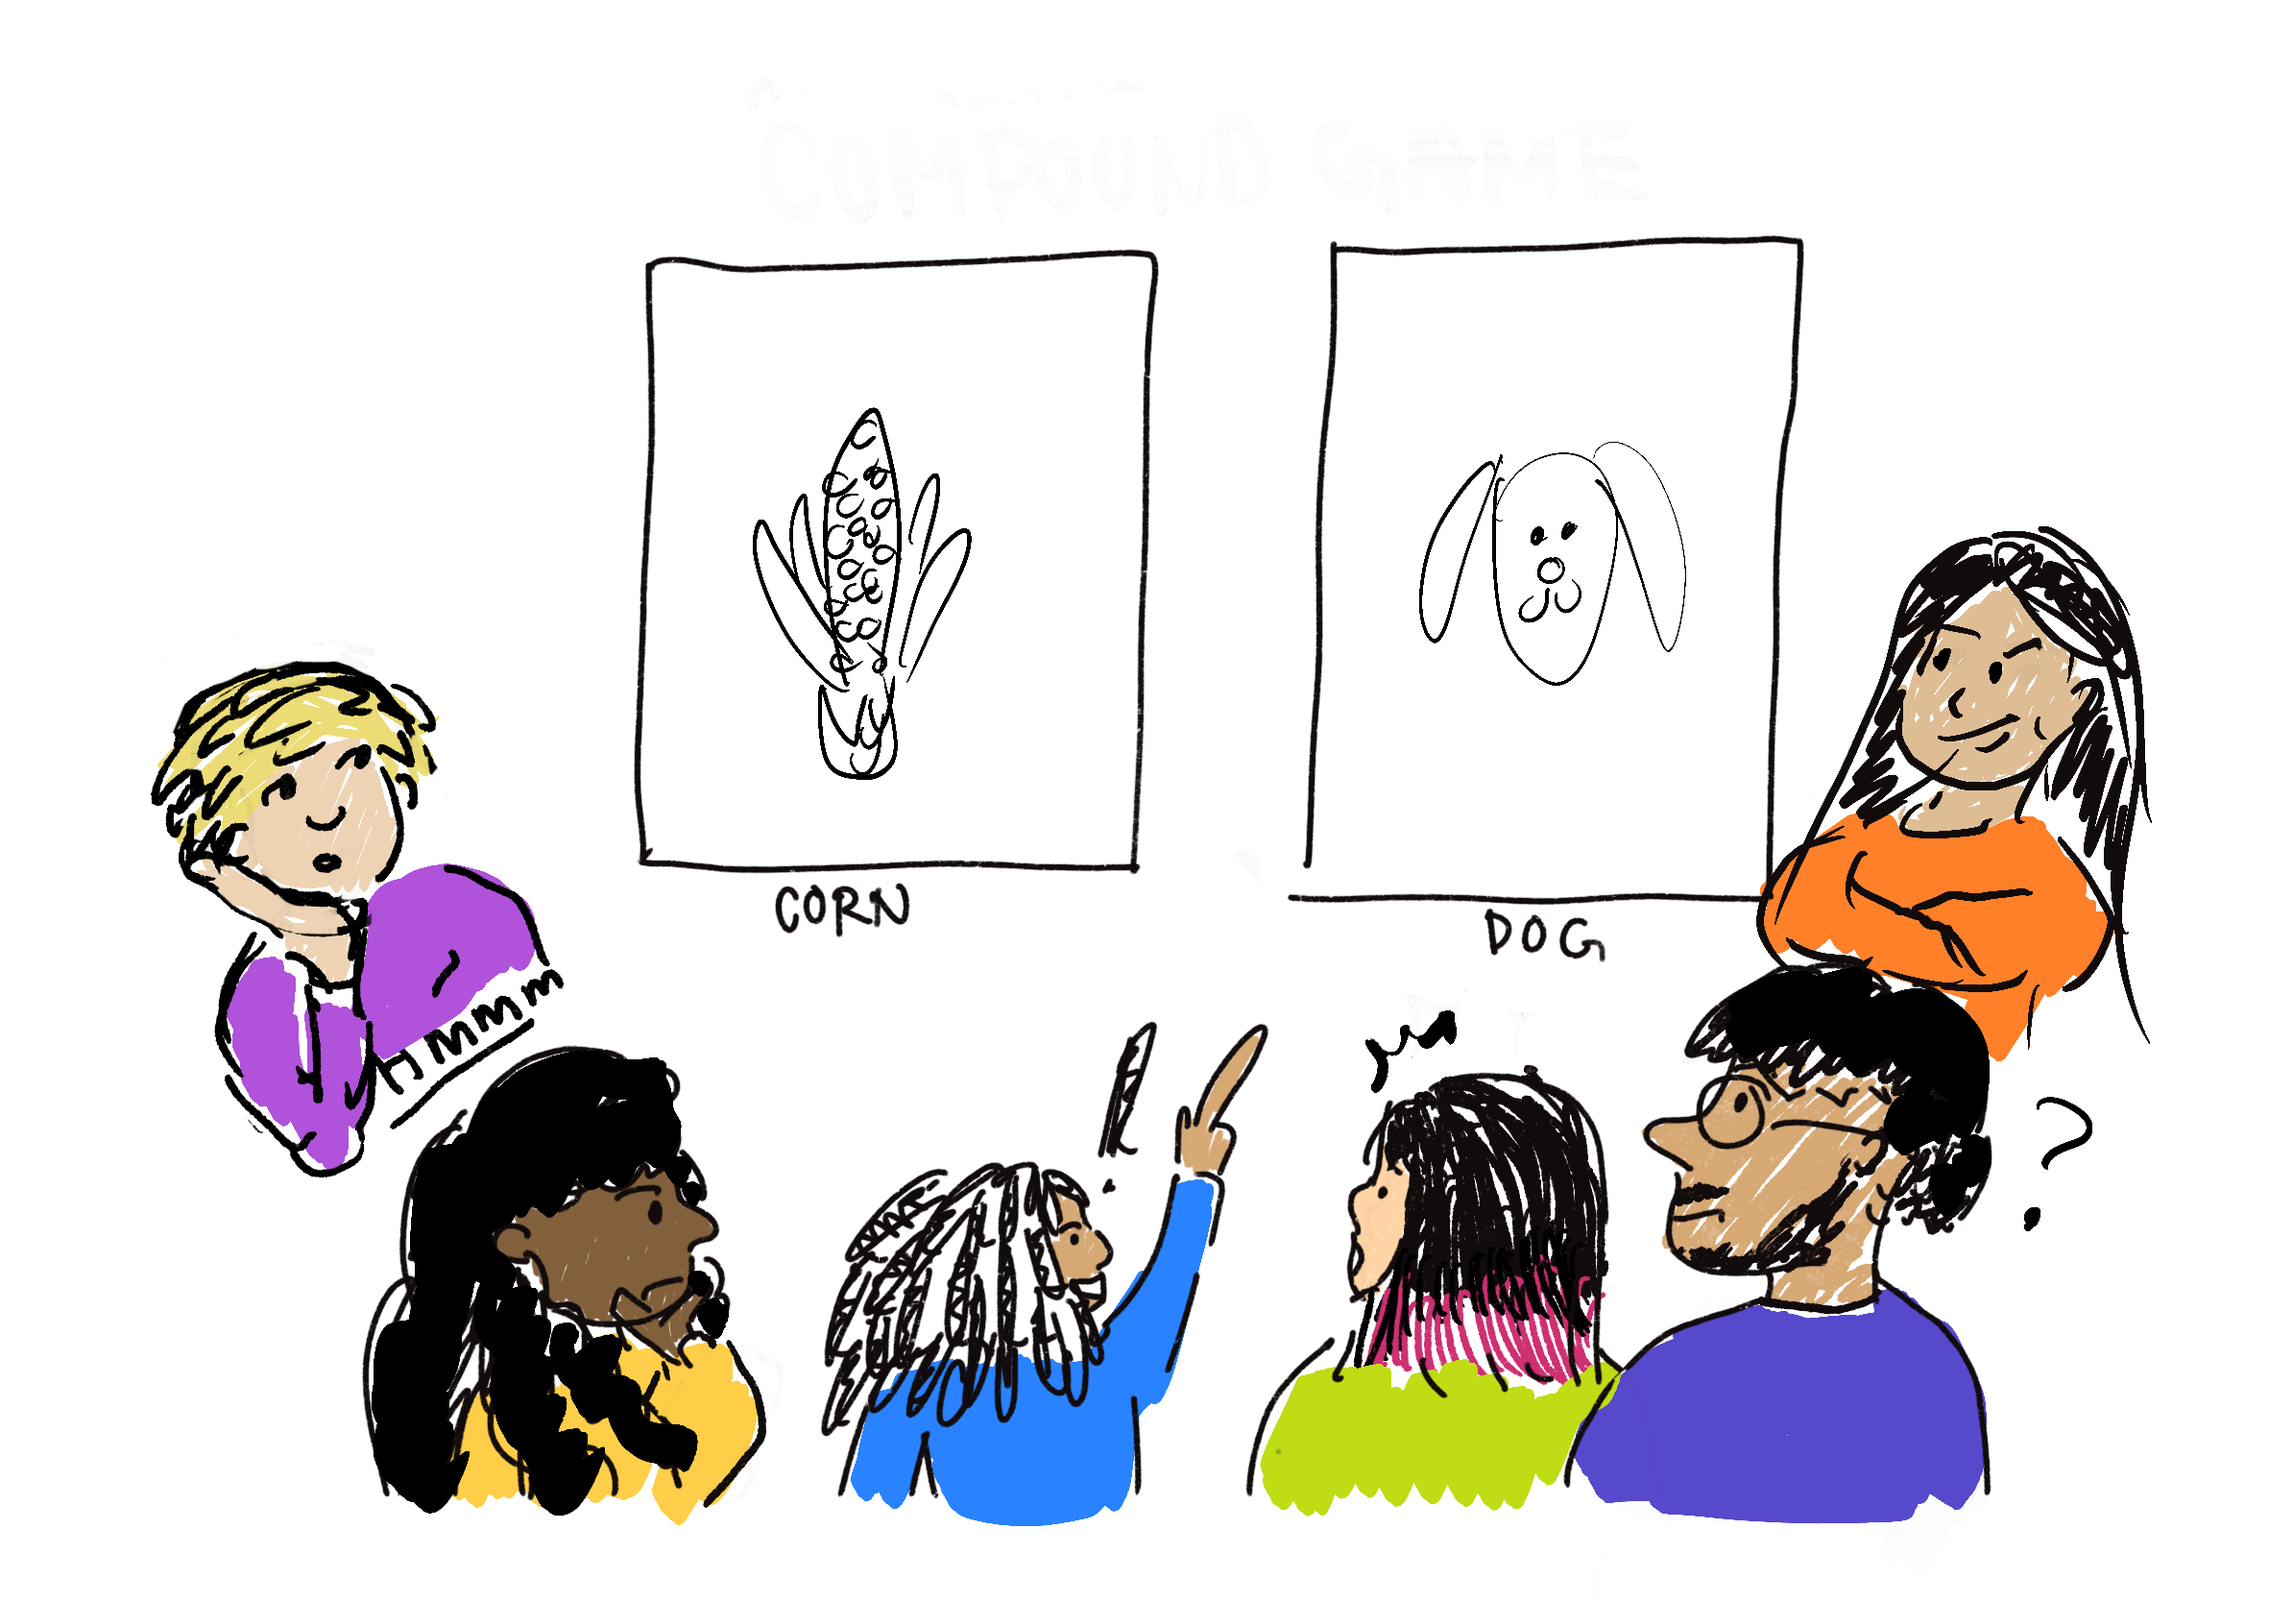
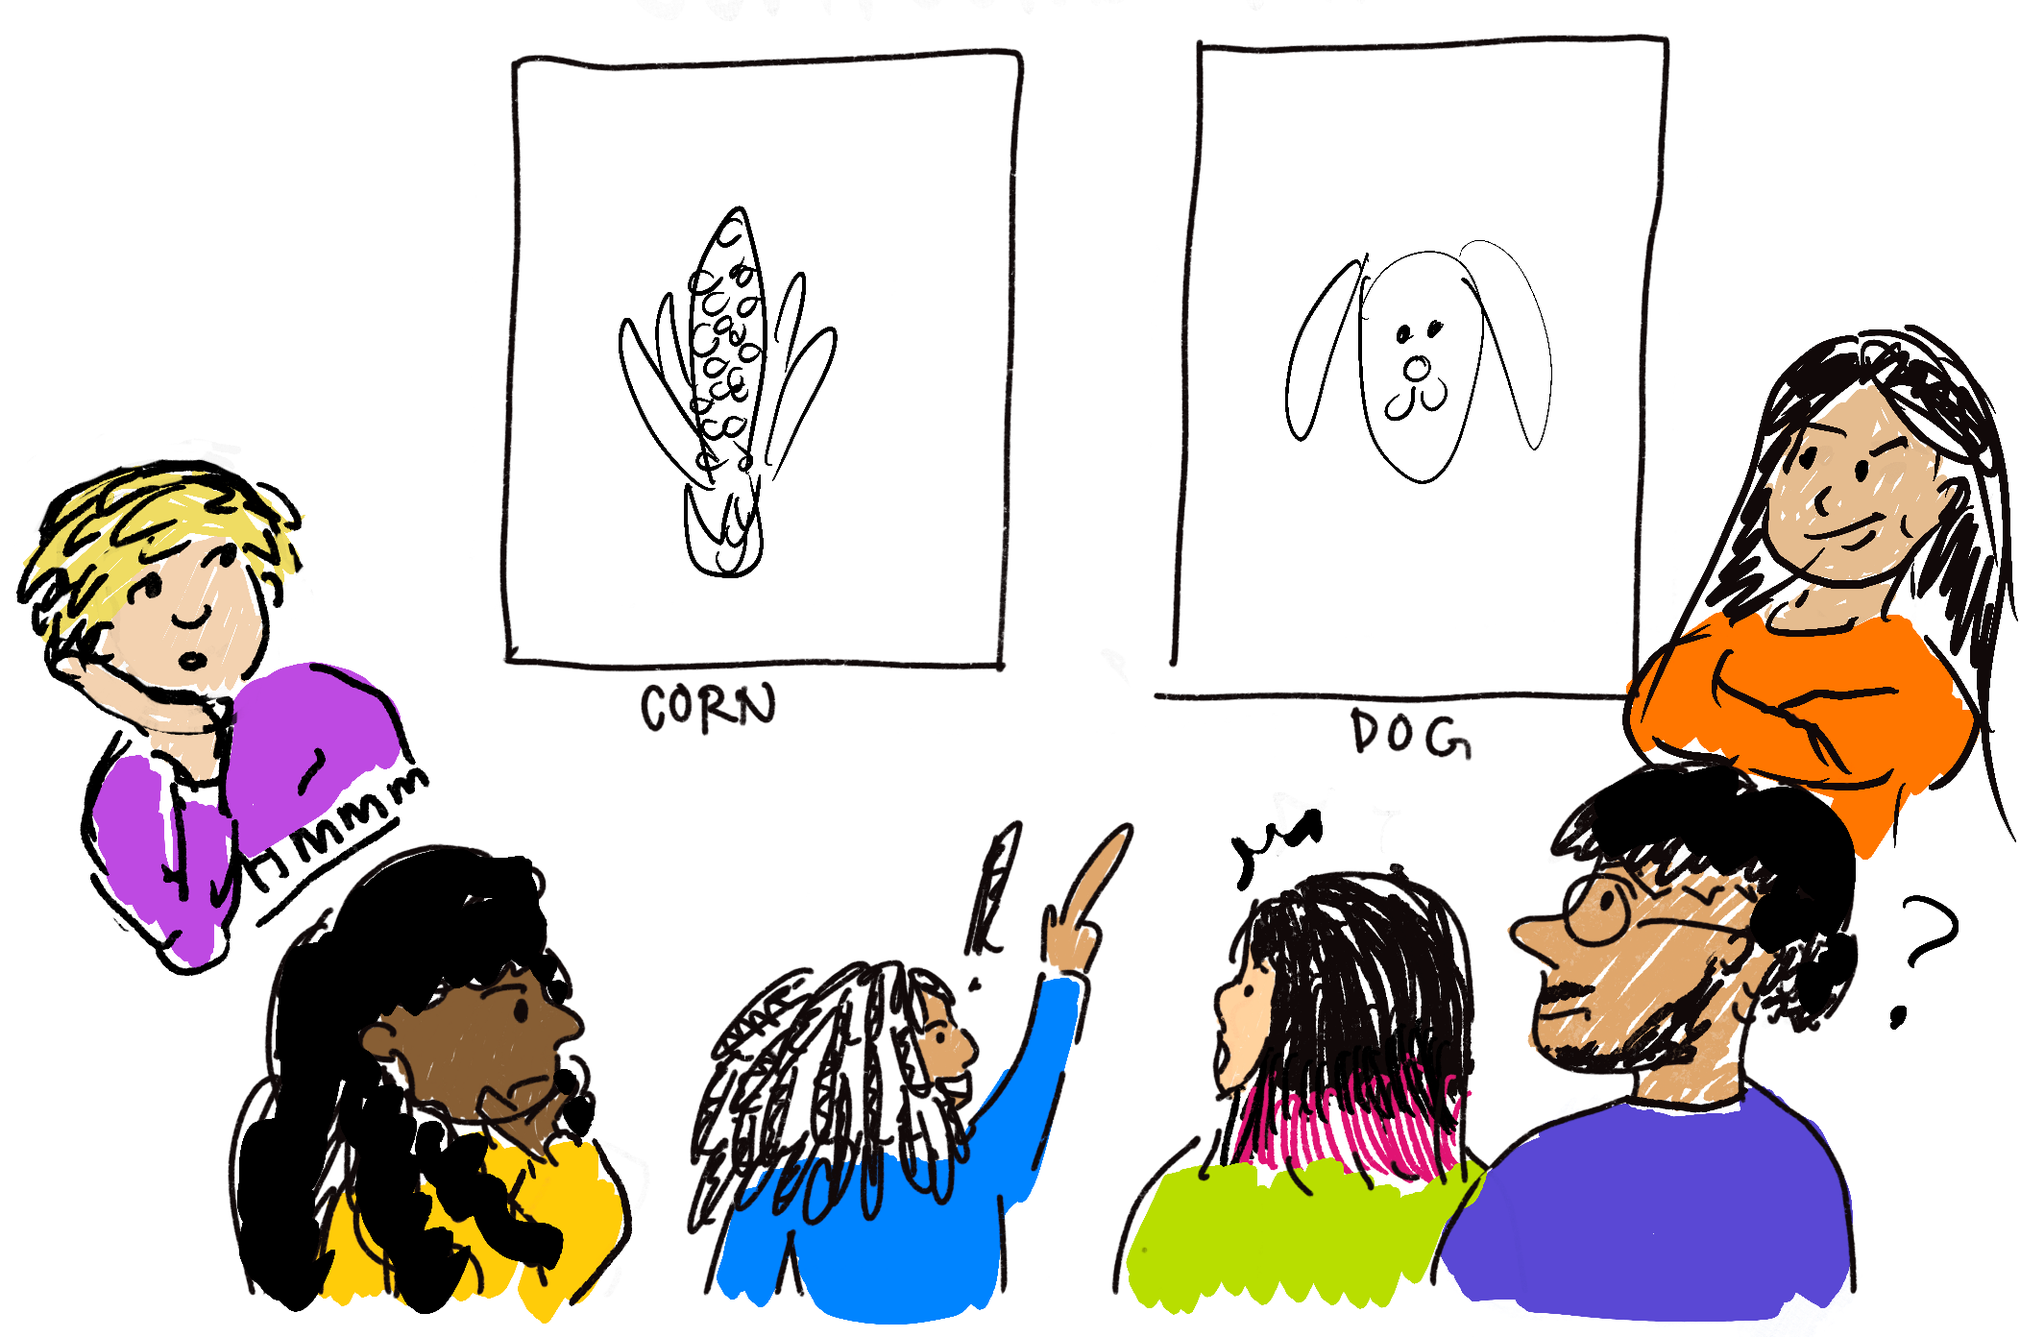
Formatting with new images/overflow issues, putting the 'room code' field back up at the top of the host lobby view (unsure how it got moved to the bottom)

diff --git a/public/index.html b/public/index.html
@@ -121,9 +121,8 @@
         <div class="uk-section uk-width-1-1 uk-padding-remove" style=height:15vh>
           <div class="uk-padding-remove uk-height-1-1 uk-margin-remove uk-flex-center uk-flex-middle" uk-grid>
             <div class="uk-width-auto uk-padding-remove">
-              <div class="imgbox">
-                <img src="doodleDuo.png" class='center' uk-img>
-              </div>
+              <img data-src="doodleDuoEdited.png" style="height:30vw ;max-height:15vh; width:80vw;max-width:380px"
+                uk-img>
             </div>
           </div>
         </div>
@@ -131,8 +130,8 @@
         <!-- Central Image-->
         <div class="uk-section uk-width-1-1 uk-padding-remove" style=height:40vh>
           <div class="uk-padding-remove uk-height-1-1 uk-margin-remove uk-flex-center uk-flex-middle" uk-grid>
-            <div class="uk-width-auto">
-              <img src="homeImage1.jpeg" class = 'center2' uk-img>
+            <div class="uk-width-auto uk-padding-remove">
+              <img data-src="homeImage1.jpeg" style="height:40vw;max-height:30vh;width:80vw;max-width:580px" uk-img>
             </div>
           </div>
         </div>
@@ -143,8 +142,8 @@
             <div class="uk-width-auto uk-padding-remove uk-flex-center uk-flex-middle">
               <div class="uk-margin">
                 <div class="uk-card" style="height:1vh; padding-top: 1em"></div>
-                <input class="uk-input" type="text" placeholder="Enter Player Name" id='nameInput'
-                autocorrect="off" spellcheck="false" autocomplete="off" style="text-align:center">
+                <input class="uk-input" type="text" placeholder="Enter Player Name" id='nameInput' autocorrect="off"
+                  spellcheck="false" autocomplete="off" style="text-align:center">
               </div>
             </div>
           </div>
@@ -160,8 +159,8 @@
                 style="height:20vh;width:40vw;text-align:center;max-width:340px">
                 <p style="font-size: 16px;"> Join A Lobby </p>
                 <div class="uk-margin" uk-margin>
-                  <input class="uk-input" type="text" placeholder="Room Code" id='roomIdInput'
-                    autocorrect="off" spellcheck="false" autocomplete="off"
+                  <input class="uk-input" type="text" placeholder="Room Code" id='roomIdInput' autocorrect="off"
+                    spellcheck="false" autocomplete="off"
                     style="width:37vw;font-size:15px;height:5vh;text-align:center;max-width:320px">
                   <button class="uk-button uk-button-primary" onclick="joinButtonClicked()"
                     style="width:37vw;font-size:15px;height:5vh;text-transform:none;text-align:center;max-width:320px">Join</button>
@@ -216,7 +215,32 @@
         <div class="uk-section uk-width-1-1 uk-padding-remove" style=height:15vh>
           <div class="uk-padding-remove uk-height-1-1 uk-margin-remove uk-flex-center uk-flex-middle" uk-grid>
             <div class="uk-width-auto uk-padding-remove">
-              <img data-src="doodleDuo.png" class='center' uk-img>
+              <img data-src="doodleDuoEdited.png" style="height:30vw ;max-height:15vh; width:80vw;max-width:380px"
+                uk-img>
+            </div>
+          </div>
+        </div>
+
+
+        <!-- ID Section-->
+        <div class="uk-section uk-width-1-1 uk-padding-remove" style=height:20vh>
+          <div
+            class="uk-padding-remove uk-height-1-1 uk-marging-remove uk-flex uk-flex-column uk-flex-column uk-flex-middle">
+            <div class="uk-width-auto uk-padding-remove" style=height:20vh>
+              <div class="uk-section uk-width-expand uk-text-center uk-padding-remove"
+                style="height:10vh;width:80vw;max-width:680px">
+                <!-- Spacer box becuase I couldn't figure out how to push the button down without manually moving it like this-->
+                <div class="uk-card" style="height:1vh;width:40vw"></div>
+                <p style="font-size:24px"> Your Room Code Is</p>
+              </div>
+              <div class="uk-section uk-width-expand uk-text-center uk-padding-remove"
+                style="height:10vh;width:80vw;max-width:680px">
+                <input id="gameCodeDisplay" readonly="readonly" class="uk-input"
+                  style="width:40vw;max-width:340px;text-align:center"></input>
+                <button class="uk-button uk-button-primary uk-button-small" id="copy-room-code" onclick="copyLobbyId()"
+                  style="width:30vw;height:40px;font-size:14px;text-transform:none;text-align:center;max-width:120px">Click
+                  to copy</button>
+              </div>
             </div>
           </div>
         </div>
@@ -272,8 +296,7 @@
             </div>
             <div class="uk-card uk-padding-remove uk-text-center uk-text-middle"
               style="height:5vh;width:10vw;max-width:680px"> </div>
-            <input type='text' value='6' id='RoundInput'
-              autocorrect="off" spellcheck="false" autocomplete="off"
+            <input type='text' value='6' id='RoundInput' autocorrect="off" spellcheck="false" autocomplete="off"
               class="uk-input uk-padding-remove uk-text-middle uk-text-center" style="width:13vw" />
           </div>
 
@@ -285,36 +308,12 @@
             </div>
             <div class="uk-card uk-padding-remove uk-text -center uk-text-middle"
               style="height:5vh;width:10vw;max-width:680px"> </div>
-            <input type='text' value='120' id='RoundTimerInput'
-              autocorrect="off" spellcheck="false" autocomplete="off"
+            <input type='text' value='120' id='RoundTimerInput' autocorrect="off" spellcheck="false" autocomplete="off"
               class="uk-input uk-padding-remove uk-text-middle uk-text-center" style="width:13vw" />
           </div>
 
         </div>
 
-
-        <!-- ID Section-->
-        <div class="uk-section uk-width-1-1 uk-padding-remove" style=height:20vh>
-          <div
-            class="uk-padding-remove uk-height-1-1 uk-marging-remove uk-flex uk-flex-column uk-flex-column uk-flex-middle">
-            <div class="uk-width-auto uk-padding-remove" style=height:20vh>
-              <div class="uk-section uk-width-expand uk-text-center uk-padding-remove"
-                style="height:10vh;width:80vw;max-width:680px">
-                <!-- Spacer box becuase I couldn't figure out how to push the button down without manually moving it like this-->
-                <div class="uk-card" style="height:1vh;width:40vw"></div>
-                <p style="font-size:24px"> Your Room Code Is</p>
-              </div>
-              <div class="uk-section uk-width-expand uk-text-center uk-padding-remove"
-                style="height:10vh;width:80vw;max-width:680px">
-                <input id="gameCodeDisplay" readonly="readonly" class="uk-input"
-                  style="width:40vw;max-width:340px;text-align:center"></input>
-                <button class="uk-button uk-button-primary uk-button-small" id="copy-room-code" onclick="copyLobbyId()"
-                  style="width:30vw;height:40px;font-size:14px;text-transform:none;text-align:center;max-width:120px">Click
-                  to copy</button>
-              </div>
-            </div>
-          </div>
-        </div>
 
 
         <!-- Start Game Button -->
@@ -360,12 +359,12 @@
           </div>
         </div>
 
-
         <!-- Title Section-->
         <div class="uk-section uk-width-1-1 uk-padding-remove" style=height:15vh>
           <div class="uk-padding-remove uk-height-1-1 uk-margin-remove uk-flex-center uk-flex-middle" uk-grid>
             <div class="uk-width-auto uk-padding-remove">
-              <img data-src="doodleDuo.png" class='center' uk-img>
+              <img data-src="doodleDuoEdited.png" style="height:30vw ;max-height:15vh; width:80vw;max-width:380px"
+                uk-img>
             </div>
           </div>
         </div>
@@ -463,7 +462,8 @@
         <div class="uk-section uk-width-1-1 uk-padding-remove" style=height:15vh>
           <div class="uk-padding-remove uk-height-1-1 uk-margin-remove uk-flex-center uk-flex-middle" uk-grid>
             <div class="uk-width-auto uk-padding-remove">
-              <img data-src="doodleDuo.png" class='center' uk-img>
+              <img data-src="doodleDuoEdited.png" style="height:30vw ;max-height:15vh; width:80vw;max-width:380px"
+                uk-img>
             </div>
           </div>
         </div>
@@ -584,7 +584,7 @@
       <div id="gv-info">
         <div class="players-wrapper">
           <div class="players-container scroll-container">
-<!--            <b>Current Players</b>-->
+            <!--            <b>Current Players</b>-->
             <table id='players-table'>
               <tr>
                 <th>Player</th>
@@ -1008,9 +1008,9 @@
     function startGameButtonClicked() {
       socket.emit('startGame', 8, roundInput.value, roundTimer.value);
       postChatMessage(
-              '--- Game Started! ---\n' +
-              '-- Player guesses will appear here --\n' +
-              '\n');
+        '--- Game Started! ---\n' +
+        '-- Player guesses will appear here --\n' +
+        '\n');
     }
 
     function paintbrushButtonClicked() {
@@ -1109,8 +1109,8 @@
         addCell.appendChild(points);
       }
       postChatMessage('\n------------------------' +
-                     '\n----- New Round! ------\n' +
-                      '------------------------\n');
+        '\n----- New Round! ------\n' +
+        '------------------------\n');
       console.debug('endRoundScores', { scoresObj });
     });
 
@@ -1403,7 +1403,7 @@
 
       // Player roster for non-host players
       nonHostPlayers = document.getElementById('playerJoin');
-      nonHostPlayers.innerHTML='';
+      nonHostPlayers.innerHTML = '';
       for (var i = 0; i < Object.values(users).length; i++) {
         nonHostPlayers.appendChild(document.createElement('br'));
         if (i == 0) {
@@ -1420,8 +1420,8 @@
       hostPlayersLeft = document.getElementById('playerJoin2');
       hostPlayersRight = document.getElementById('playerJoin3');
 
-      hostPlayersLeft.innerHTML='';
-      hostPlayersRight.innerHTML='';
+      hostPlayersLeft.innerHTML = '';
+      hostPlayersRight.innerHTML = '';
 
       for (var i = 0; i < Math.min(6, Object.values(users).length); i++) {
         if (i == 0) {
